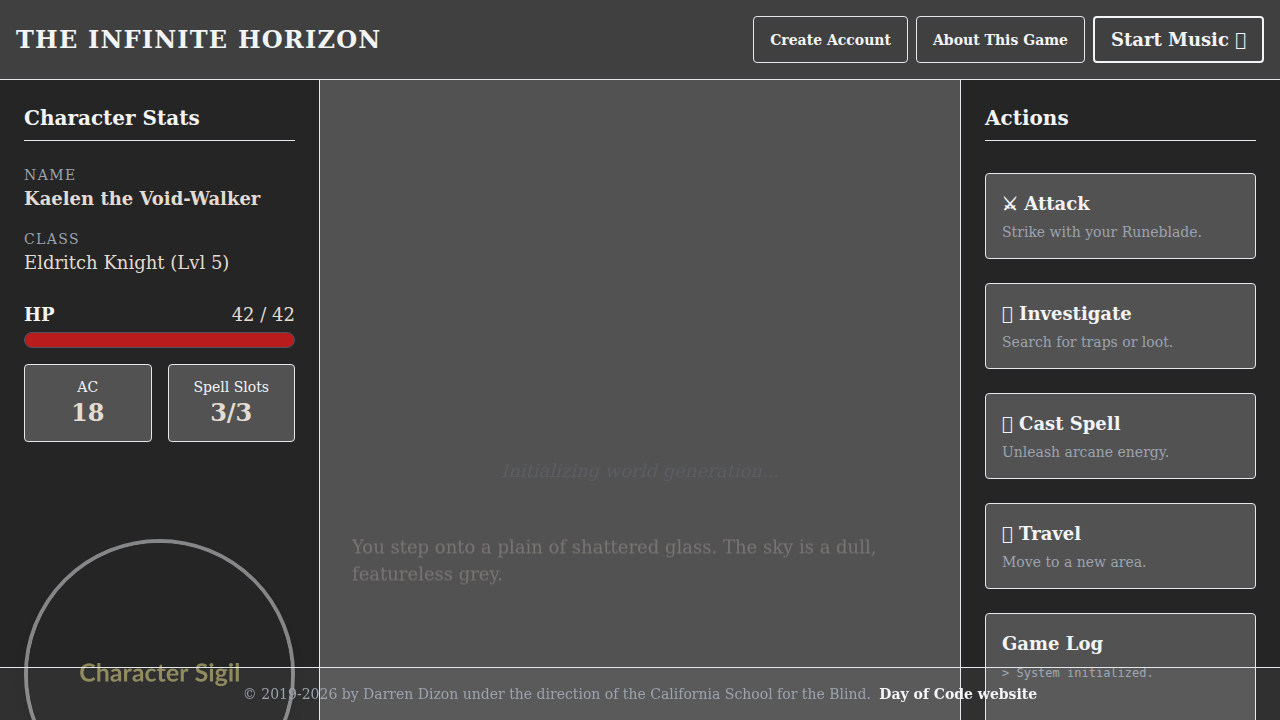
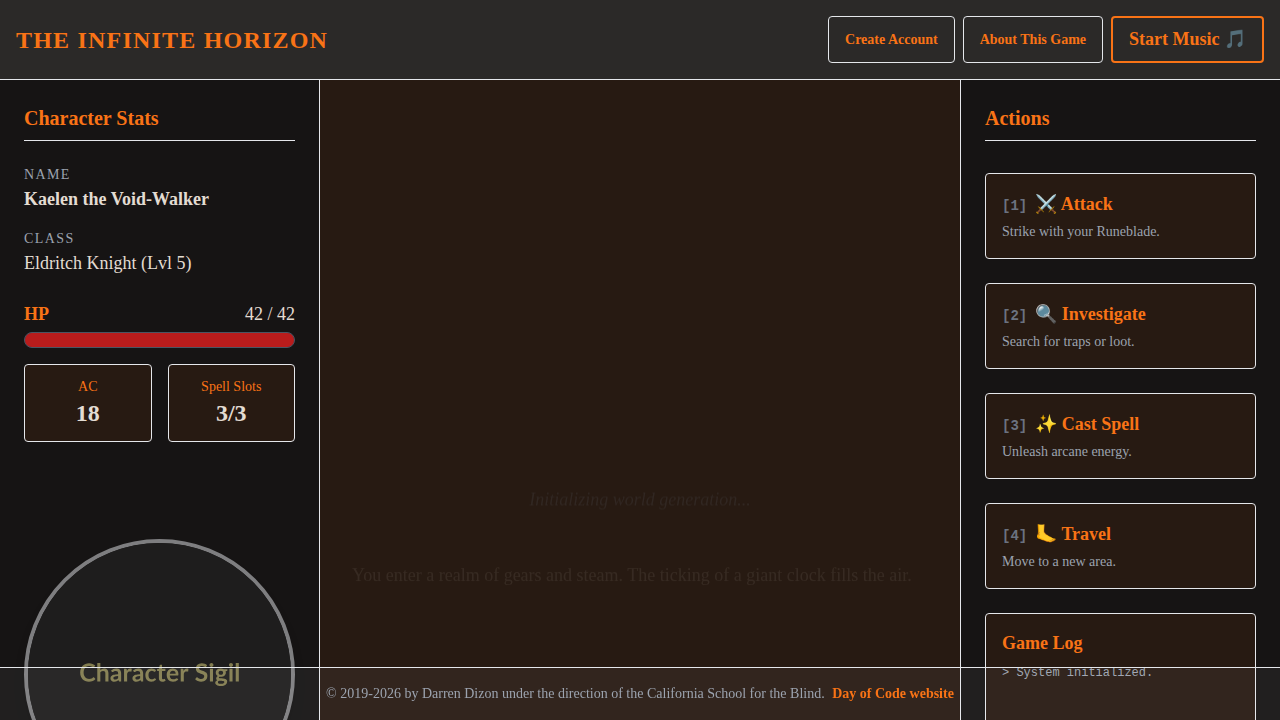
feat: Add keyboard shortcuts (1-9) to action buttons with visual hints for improved accessibility

diff --git a/script.js b/script.js
@@ -230,14 +230,18 @@ function generateOptions() {
 
 function renderButtons(options) {
     ui.actionPanel.innerHTML = "";
-    options.forEach(opt => {
+    options.forEach((opt, index) => {
         const btn = document.createElement('button');
+        const key = index + 1;
         btn.className = "action-btn group relative w-full p-4 border border-gold/30 bg-charcoal hover:bg-charcoal-light transition-all rounded text-left focus:ring-2 focus:ring-gold mb-2";
+        btn.setAttribute('aria-keyshortcuts', key.toString());
         // Remove Emoji for aria-label if desired, but here we keep them in visual text.
         // User asked: "Refrain from using Emoji's in the HTML" for the ABOUT POP-UP.
         // For buttons, emojis are often used as icons. I will keep them here unless requested otherwise for buttons.
         btn.innerHTML = `
-            <span class="block text-lg font-bold text-gold group-hover:translate-x-1 transition-transform">${opt.label}</span>
+            <span class="block text-lg font-bold text-gold group-hover:translate-x-1 transition-transform">
+                <span class="text-sm font-mono mr-2 text-gray-500 group-hover:text-gold transition-colors">[${key}]</span>${opt.label}
+            </span>
             <span class="block text-sm text-gray-400 mt-1">${opt.description}</span>
         `;
         btn.onclick = () => handleAction(opt.action_type);
@@ -471,6 +475,21 @@ ui.btnCloseAbout.addEventListener('click', () => {
     ui.aboutModal.setAttribute('aria-hidden', 'true');
     window.speechSynthesis.cancel(); // Stop reading
     ui.btnAbout.focus(); // Return focus
+});
+
+// Global Keyboard Shortcuts (1-9)
+document.addEventListener('keydown', (e) => {
+    // Only trigger if no other interactive element is focused (optional, but good practice usually)
+    // But here we want it to work generally unless typing (which we don't have).
+    // Let's just check for keys 1-9.
+    const key = parseInt(e.key);
+    if (!isNaN(key) && key >= 1 && key <= 9) {
+        const buttons = ui.actionPanel.querySelectorAll('button');
+        if (buttons[key - 1]) {
+            buttons[key - 1].click();
+            buttons[key - 1].focus(); // Maintain focus flow
+        }
+    }
 });
 
 // Load voices when they are ready (Chrome needs this)

diff --git a/verification/verify_shortcuts.py b/verification/verify_shortcuts.py
@@ -1,0 +1,58 @@
+from playwright.sync_api import sync_playwright
+import os
+import time
+
+def verify_shortcuts():
+    with sync_playwright() as p:
+        browser = p.chromium.launch(headless=True)
+        page = browser.new_page()
+        # Loading the local file directly using absolute path from /app
+        page.goto(f"file://{os.getcwd()}/index.html")
+
+        # Wait for the game to load and buttons to appear
+        # The Attack button should be there
+        page.wait_for_selector("button:has-text('Attack')")
+
+        # Verify the hint is visible
+        # We look for "[1]" in the text
+        if not page.is_visible("text=[1]"):
+            print("Error: Shortcut hint [1] not found on page.")
+            browser.close()
+            exit(1)
+
+        print("Shortcut hint found.")
+
+        # Capture initial log state
+        initial_log_count = page.locator("#game-log-list li").count()
+        print(f"Initial log count: {initial_log_count}")
+
+        # Press "1"
+        print("Pressing '1'...")
+        page.keyboard.press("1")
+
+        # Wait for log to update
+        try:
+            page.wait_for_function(f"document.querySelectorAll('#game-log-list li').length > {initial_log_count}", timeout=5000)
+        except Exception as e:
+            print(f"Error waiting for log update: {e}")
+            browser.close()
+            exit(1)
+
+        new_log_count = page.locator("#game-log-list li").count()
+        print(f"New log count: {new_log_count}")
+
+        if new_log_count > initial_log_count:
+            print("SUCCESS: Keyboard shortcut '1' triggered an action.")
+        else:
+            print("FAILURE: Keyboard shortcut '1' did not trigger an action.")
+            browser.close()
+            exit(1)
+
+        # Take a screenshot for proof
+        page.screenshot(path="verification/shortcut_test.png")
+        print("Screenshot saved to verification/shortcut_test.png")
+
+        browser.close()
+
+if __name__ == "__main__":
+    verify_shortcuts()

diff --git a/.Jules/palette.md b/.Jules/palette.md
@@ -1,0 +1,3 @@
+## 2024-05-22 - Keyboard Shortcuts for Dynamic Actions
+**Learning:** For text-based interfaces with dynamic action lists, mapping keys 1-9 to the list order is a high-value accessibility pattern.
+**Action:** When rendering lists of buttons, always consider adding index-based keyboard shortcuts and visual hints (e.g., [1]) to improve power-user and screen reader efficiency. Use aria-keyshortcuts.
